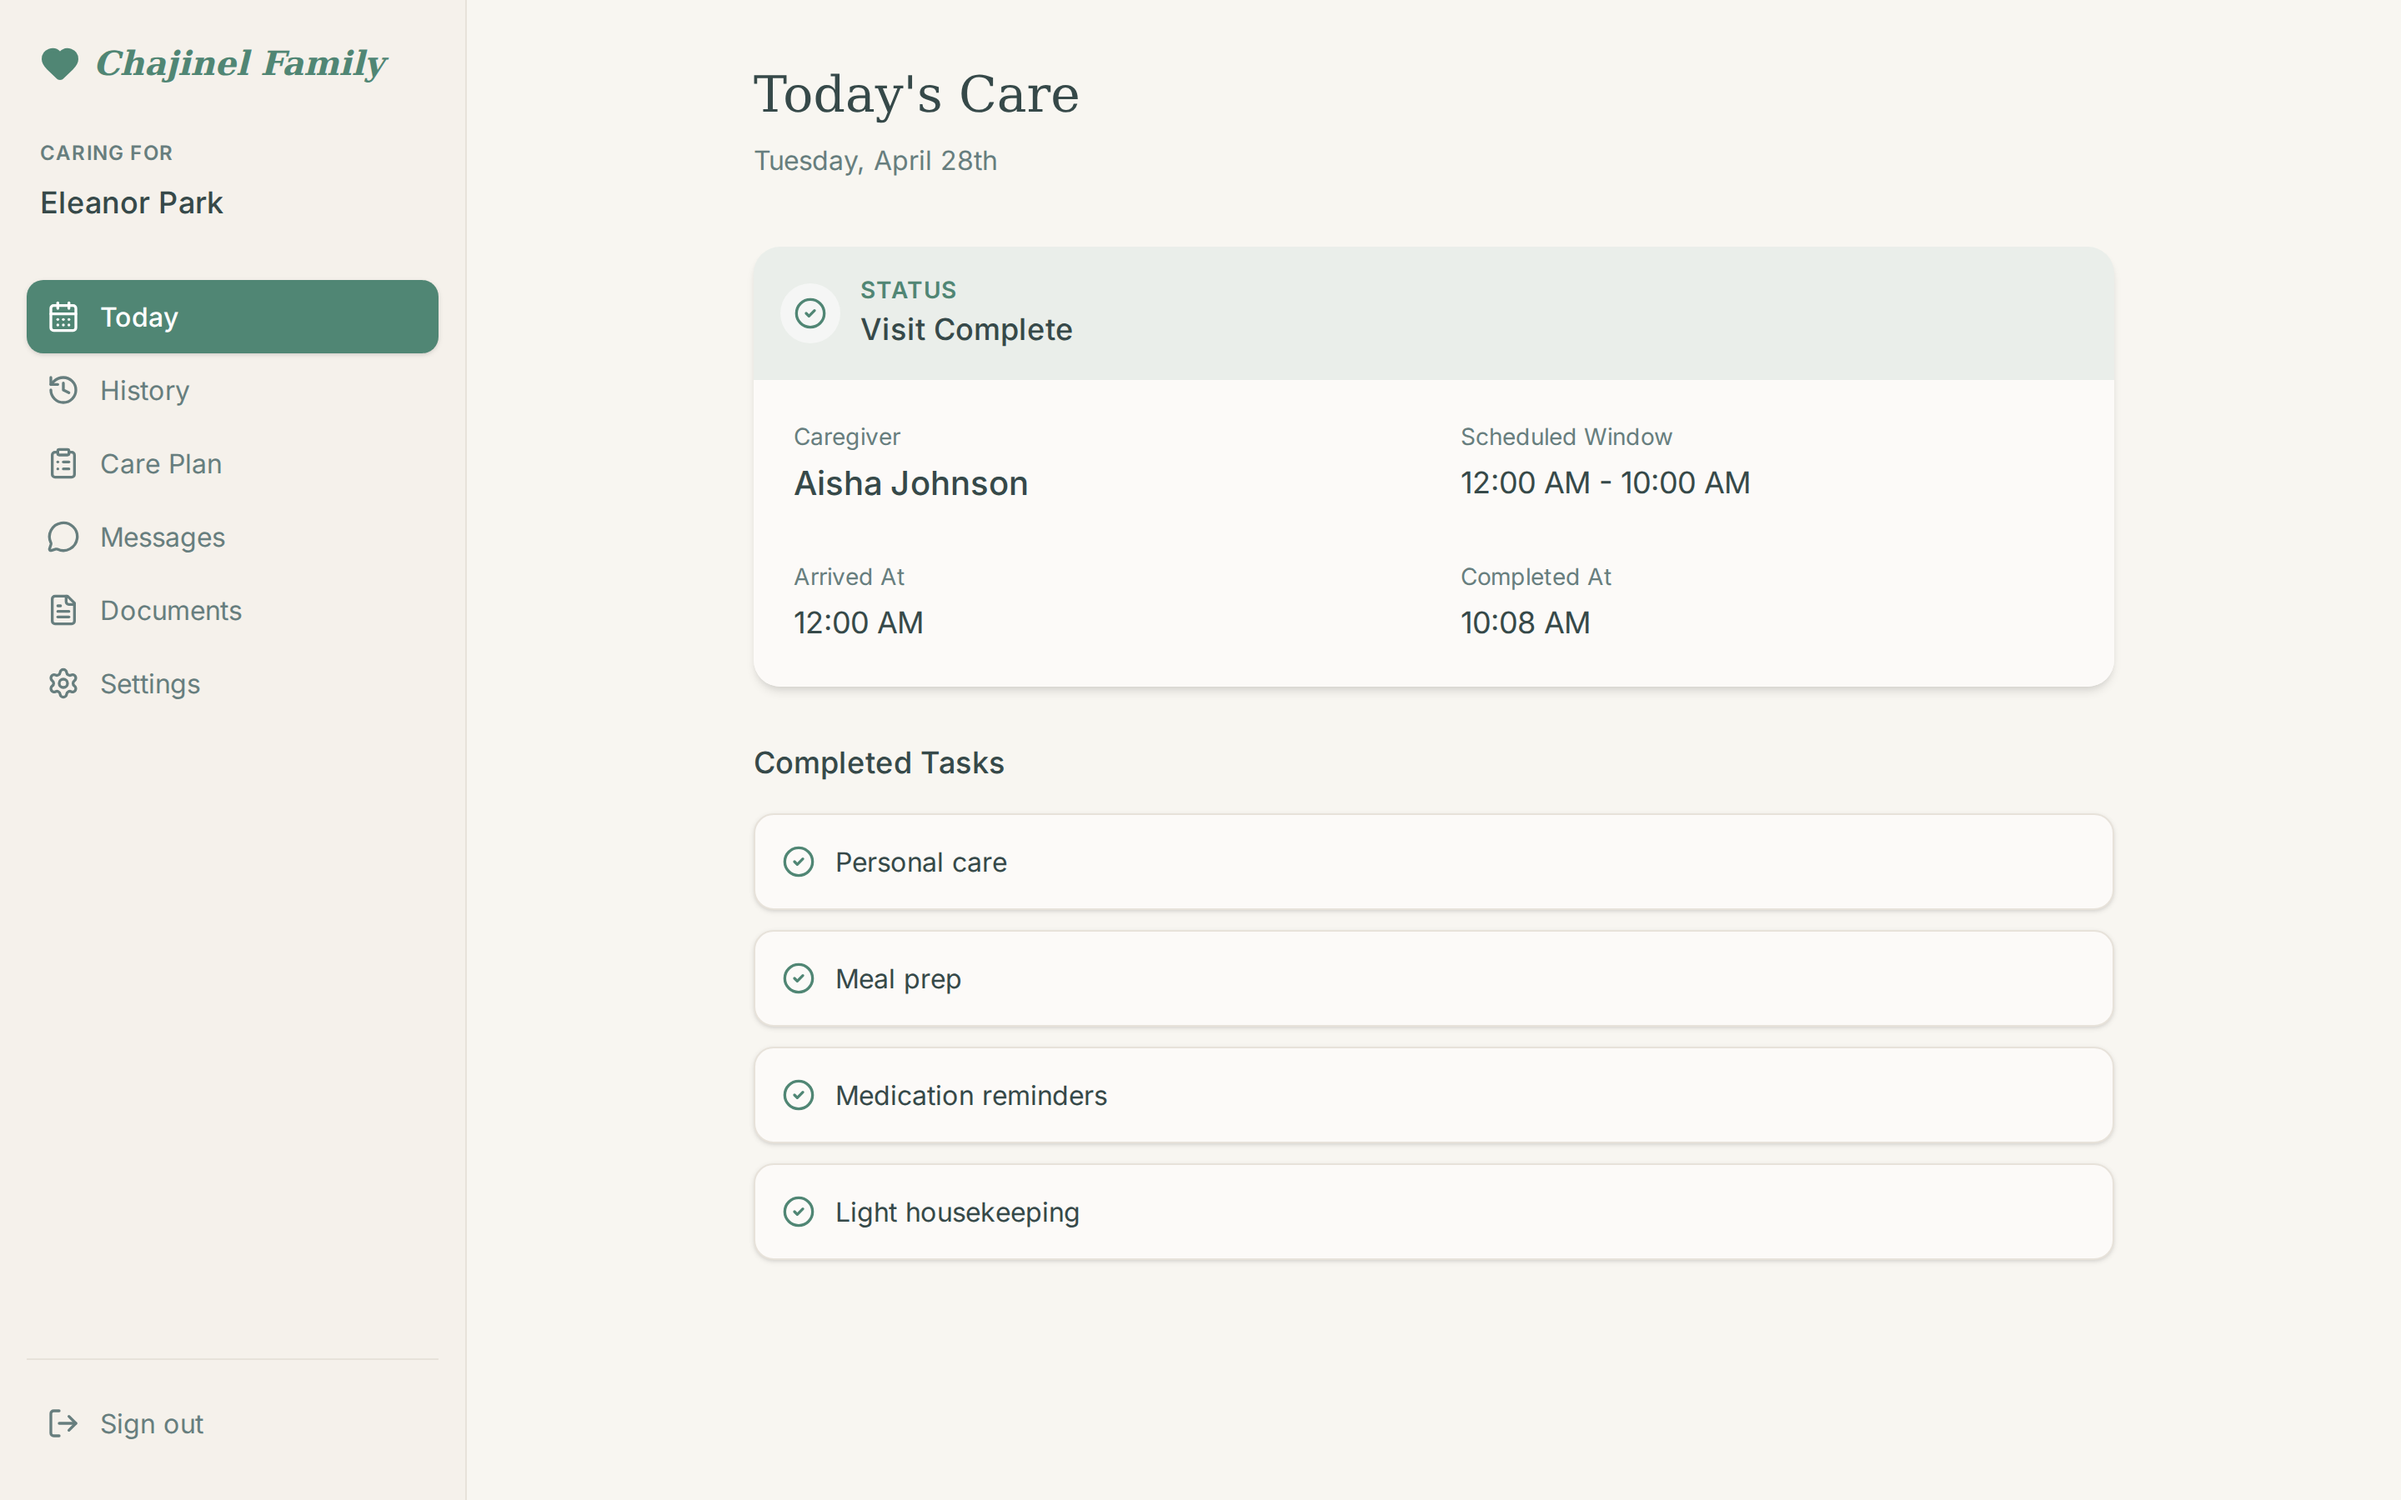
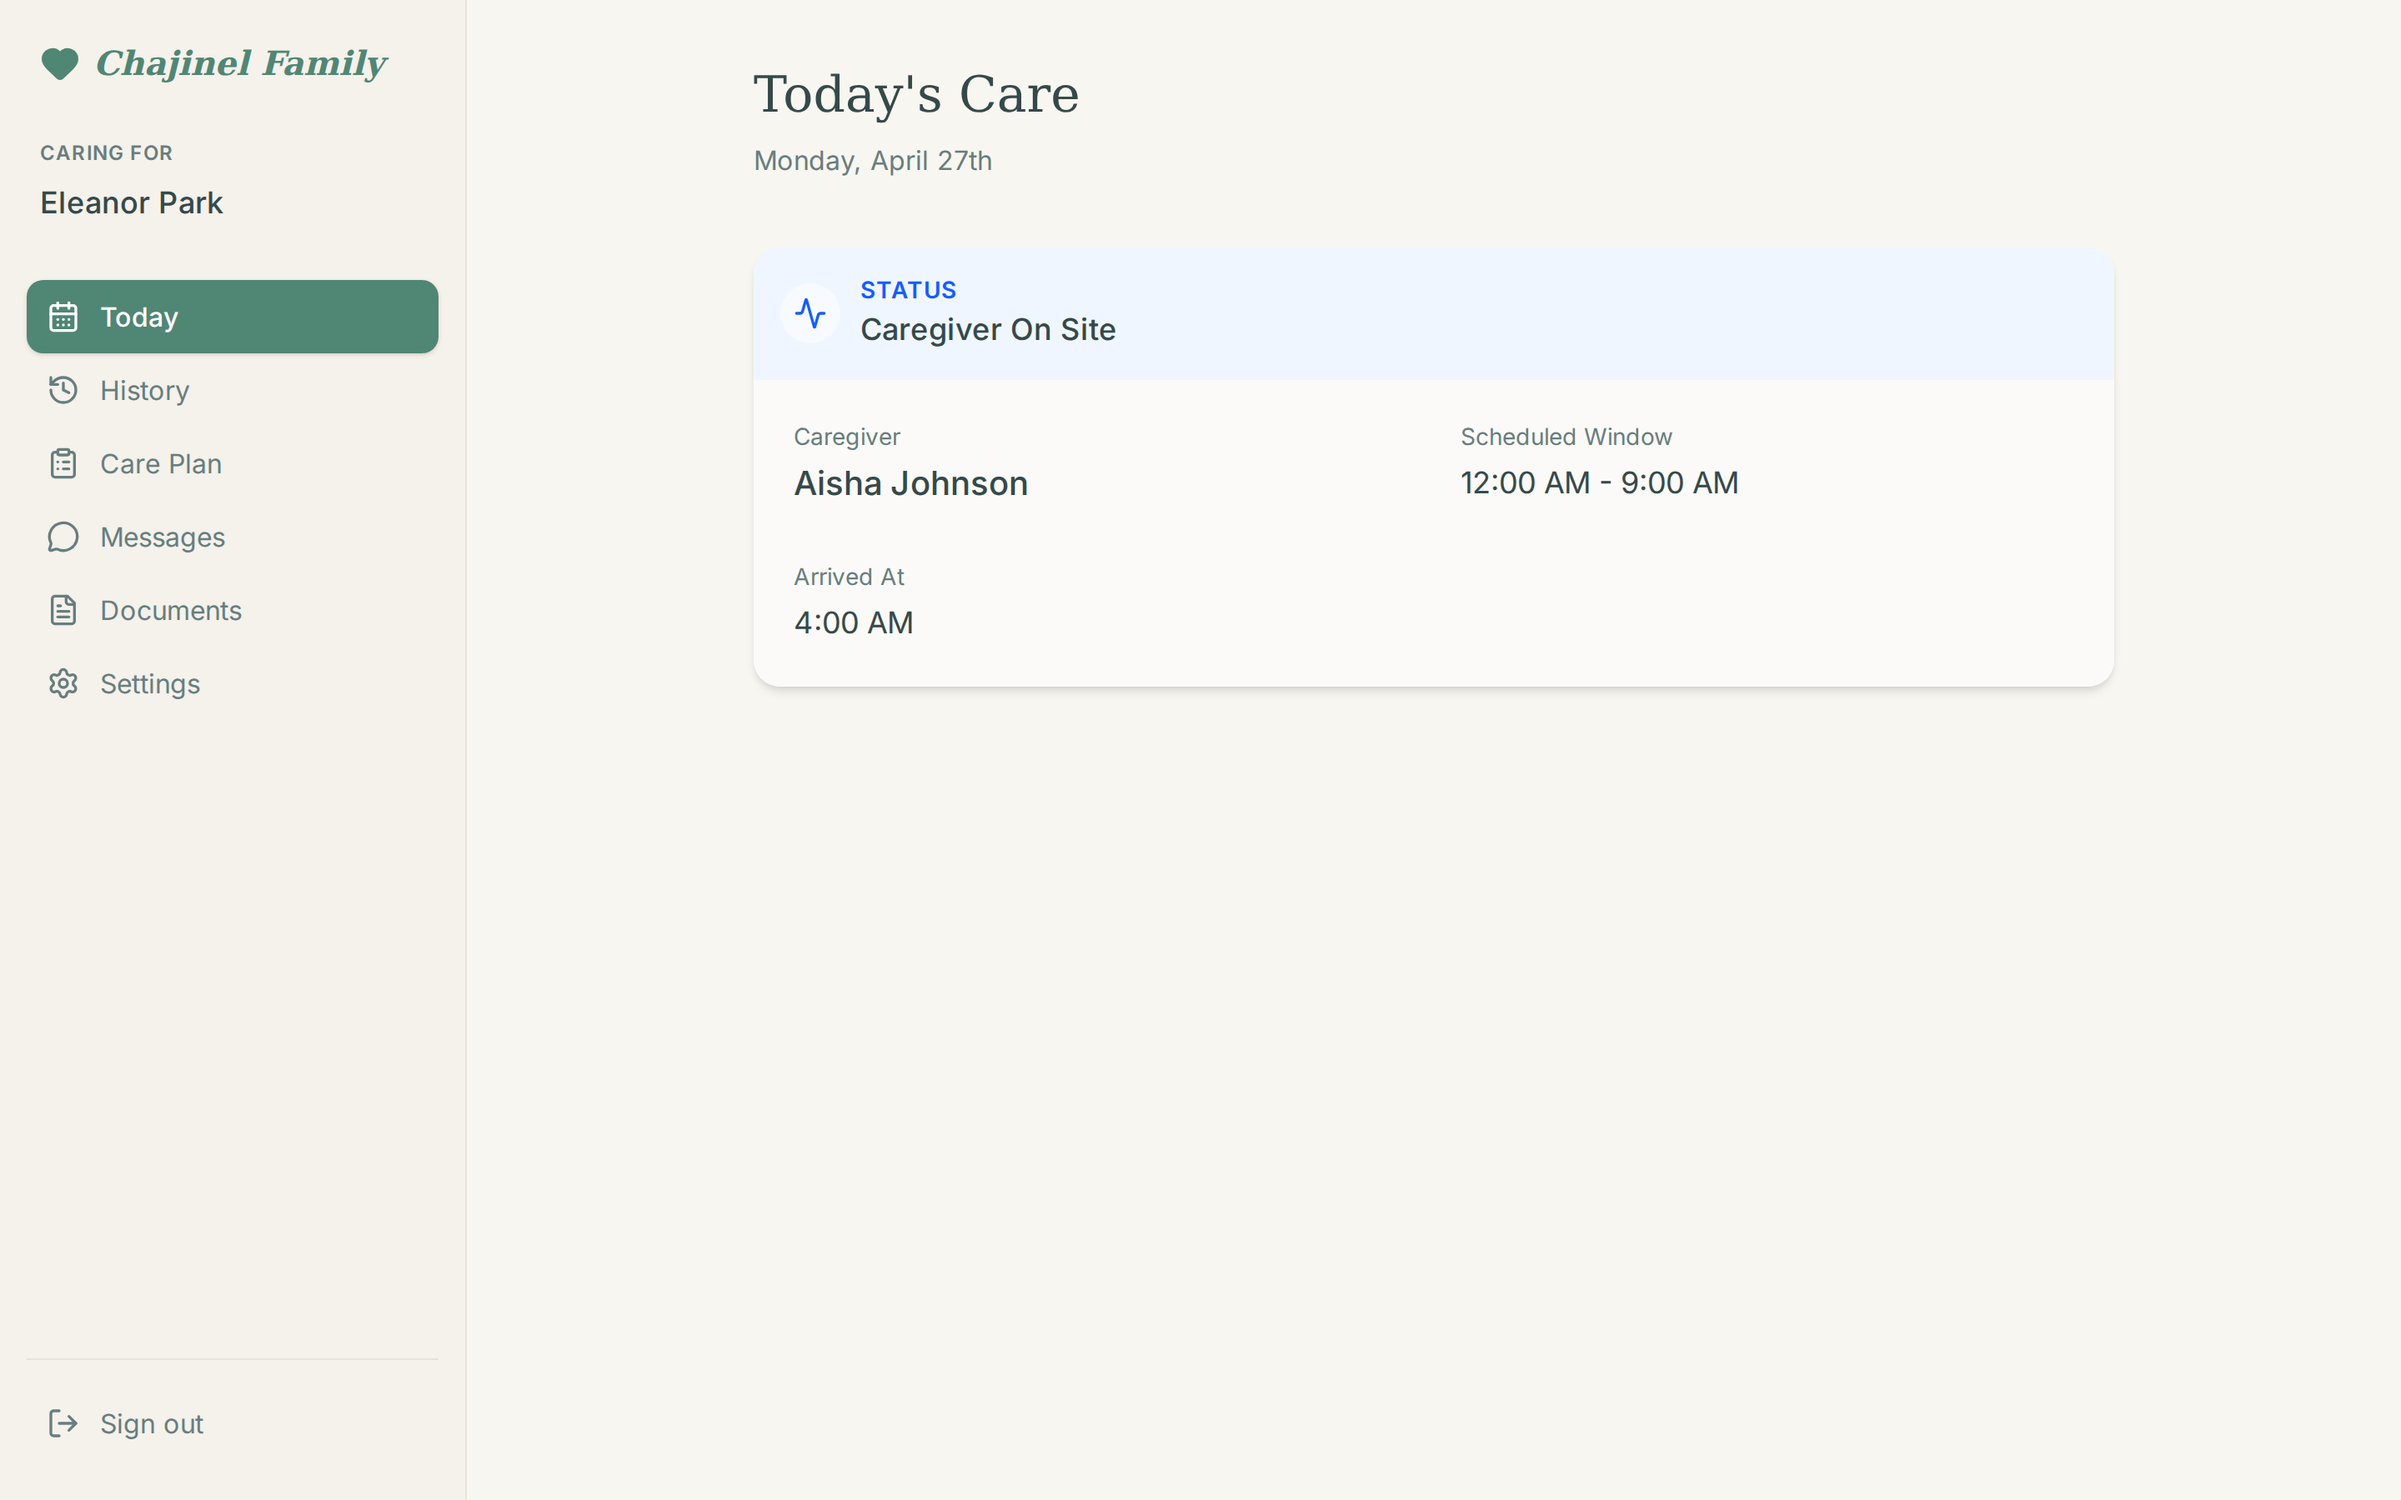
Task #35: Capture 7 demo "magic moment" PNGs via Playwright harness
Built `scripts/src/demo-screenshots.ts` Playwright harness, `pnpm
demo:screenshots` root alias, and `demo-assets/README.md`. Installed
playwright + chromium + nix system libs.

Canonical PNGs are committed under `demo-assets/` as the baseline
fallback set; only `*.tmp` is gitignored now.

Harness drives each magic-moment state deterministically and hard-asserts
the required content before capture (fails fast on regression):

1. Dashboard — waits for "Active Clients/Caregivers/Projected OT" KPIs.
2. Schedule grid — Apr 27–May 3 grid; hovers the first shift card to
   show the OT-impact affordance before capturing.
3. Intake review — confidence percents (97/91/86/72/95) all rendered.
4. Caregiver active visit — Eleanor Park ON SITE with 4 care-plan tasks
   (Bathing/Medication/Korean cooking/Companionship) + "Clock out & sign"
   CTA visible (mid-checklist).
5. Family portal Today — asserts "Caregiver On Site" status + "Arrived
   At" timestamp (live state, not Scheduled/Complete).
6. Payroll period detail — closes pp_prev (Apr 13–26) so it has
   computed entries with OT breakdown; capture asserts Total/Regular/
   Premium hours and per-caregiver OT row are populated. 14 caregivers,
   $13,837 gross pay, Sofia/Aisha 2.00 OT hrs each.
7. Compliance — at least 2 OPEN alerts visible (8 OPEN alerts of 5
   types in the canonical capture).

Time/visit alignment fix: FROZEN time is now Monday 11:00 UTC (computed
[…]

diff --git a/scripts/src/demo-screenshots.ts b/scripts/src/demo-screenshots.ts
@@ -179,7 +179,7 @@ async function shotIntake(ctx: BrowserContext) {
 // ---------------------------------------------------------------------------
 // 4) Caregiver PWA active visit (clock in cg_001 → sch_001)
 // ---------------------------------------------------------------------------
-async function clockInCg001(): Promise<{ visitId: string; sessionToken: string; expiresAt: string }> {
+async function clockInCg001(occurredAtIso: string): Promise<{ visitId: string; sessionToken: string; expiresAt: string }> {
   const phone = "(415) 555-1101";
   const otp = await api<{ devCode?: string }>("/api/m/auth/request-otp", {
     method: "POST",
@@ -190,13 +190,27 @@ async function clockInCg001(): Promise<{ visitId: string; sessionToken: string; 
     "/api/m/auth/verify-otp",
     { method: "POST", json: { phone, code: otp.devCode } },
   );
-  // Clock in to sch_001 if not already on a visit
+  // Pass occurredAt aligned to FROZEN so the clocked-in visit row falls
+  // inside the family-portal Today window (queried under FROZEN's date).
   const clock = await api<{ id: string }>("/api/m/visits/clock-in", {
     method: "POST",
     headers: { authorization: `Bearer ${verify.sessionToken}` },
-    json: { scheduleId: "sch_001" },
+    json: { scheduleId: "sch_001", occurredAt: occurredAtIso },
   });
   return { visitId: clock.id, sessionToken: verify.sessionToken, expiresAt: verify.expiresAt };
+}
+
+function computeFrozenMs(): number {
+  // Mid-shift inside sch_001 (Mon 07:00–16:00 UTC) so visit is in-progress.
+  // Using UTC explicitly (seed's dateAt also uses UTC) avoids host-TZ drift.
+  const now = new Date();
+  const dow = now.getUTCDay();
+  const daysFromMonday = (dow + 6) % 7;
+  const monday = new Date(Date.UTC(
+    now.getUTCFullYear(), now.getUTCMonth(), now.getUTCDate() - daysFromMonday,
+    11, 0, 0, 0, // 11:00 UTC = squarely inside 07:00–16:00 UTC sch_001 window
+  ));
+  return monday.getTime();
 }
 
 async function shotCaregiverVisit(
@@ -250,18 +264,23 @@ async function shotFamilyToday(ctx: BrowserContext) {
   // Hard-assert: heading rendered AND a real status card is visible (not the
   // loading skeleton or empty-state placeholder). Fail the run if neither
   // populated state appears.
+  // Hard-assert ON_SITE state with caregiver and arrival time visible.
+  // We pre-clocked-in cg_001 against sch_001 and FROZEN is mid-shift, so
+  // family-portal Today must resolve to "Caregiver On Site". Fail fast if
+  // it lands on Scheduled/Complete/empty — the previous shot was wrong.
   await page.waitForFunction(
     `(() => {
       const t = document.body.innerText || "";
-      const hasHeader = /Today's Care/i.test(t);
-      const hasStatusCard = /Visit Complete|Caregiver On Site|Caregiver En Route|Scheduled/i.test(t);
-      return hasHeader && hasStatusCard;
+      if (!/Today's Care/i.test(t)) return false;
+      if (!/Caregiver On Site/i.test(t)) return false;
+      if (!/Arrived At/i.test(t)) return false;
+      return true;
     })()`,
     null,
-    { timeout: 15_000 },
+    { timeout: 20_000 },
   );
   await settle(page);
-  await snap(page, "05-family-today");
+  await snap(page, "05-family-today", "ON SITE");
   await page.close();
 }
 
@@ -269,17 +288,39 @@ async function shotFamilyToday(ctx: BrowserContext) {
 // 6) Careos payroll period detail
 // ---------------------------------------------------------------------------
 async function shotPayroll(ctx: BrowserContext) {
+  // Close pp_prev (Apr 13-26) so it has computed entries with regular/OT
+  // hour breakdowns. The harness is idempotent — if it's already closed
+  // the API returns 400 and we proceed to capture.
+  let target = "pp_prev";
+  try {
+    await api(`/api/pay-periods/${target}/close`, { method: "POST", json: {} });
+  } catch (e) {
+    const msg = (e as Error).message;
+    if (!/already CLOSED|already FINALIZED/i.test(msg)) {
+      console.warn(`  (close ${target} failed: ${msg.slice(0, 200)}; falling back to pp_open)`);
+      target = "pp_open";
+    }
+  }
   const page = await ctx.newPage();
   await page.setViewportSize(DESKTOP);
-  await page.goto(`${BASE}/payroll/pp_open`, { waitUntil: "domcontentloaded" });
+  await page.goto(`${BASE}/payroll/${target}`, { waitUntil: "domcontentloaded" });
   await page.waitForSelector("main", { timeout: 15_000 });
+  // Hard-assert the OT calculation breakdown is rendered: Caregiver Summary
+  // table populated and at least one non-zero overtime hour value present.
   await page.waitForFunction(
-    `/Pay Period Details/i.test(document.body.innerText || "") && /Caregiver Summary/i.test(document.body.innerText || "")`,
+    `(() => {
+      const t = document.body.innerText || "";
+      if (!/Pay Period Details/i.test(t)) return false;
+      if (!/Caregiver Summary/i.test(t)) return false;
+      // Either an OT hours value > 0 anywhere, or "Overtime" label paired
+      // with a non-zero numeric in the totals row.
+      return /\\bOT\\b|Overtime/i.test(t) && /[1-9][0-9]*\\.[0-9]+\\s*h|[1-9][0-9]*\\s*h/.test(t);
+    })()`,
     null,
-    { timeout: 15_000 },
+    { timeout: 20_000 },
   );
   await settle(page);
-  await snap(page, "06-careos-payroll");
+  await snap(page, "06-careos-payroll", `period ${target}`);
   await page.close();
 }
 
@@ -315,10 +356,16 @@ async function main() {
     throw new Error(`API not reachable at ${BASE}/api/healthz — start workflows first.`);
   }
 
+  // FROZEN_MS computed in UTC so the clocked-in visit row's clockInTime
+  // falls inside the family-portal Today window (which is also queried under
+  // FROZEN). See computeFrozenMs() for the rationale.
+  const FROZEN_MS = computeFrozenMs();
+  console.log(`  ↳ frozen "now" = ${new Date(FROZEN_MS).toISOString()}`);
+
   // Pre-arrange the caregiver-active-visit (this also enables family-portal ON_SITE state).
   let caregiverSession: { visitId: string; sessionToken: string; expiresAt: string } | null = null;
   try {
-    caregiverSession = await clockInCg001();
+    caregiverSession = await clockInCg001(new Date(FROZEN_MS).toISOString());
     console.log(`  ↳ caregiver clocked in: visit ${caregiverSession.visitId}`);
   } catch (e) {
     console.warn(`  (caregiver clock-in failed: ${(e as Error).message})`);
@@ -330,41 +377,15 @@ async function main() {
     const ctx = await browser.newContext({
       viewport: DESKTOP,
       deviceScaleFactor: 2,
-      // Pin the in-browser timezone so date-fns / Intl formatters render the
-      // same labels (e.g. "Tuesday, April 28th") regardless of host TZ. The
-      // seed and FROZEN clock are computed in PT.
       timezoneId: "America/Los_Angeles",
       locale: "en-US",
     });
-    // Pin "now" to Tuesday 14:30 PT of the *current* week so views keyed off
-    // Date.now() (family-portal Today, careos Schedule "this week") resolve to
-    // populated data rather than empty weekend/out-of-range dates.
-    //
-    // The seed (`seed.ts` / `seed-chajinel.ts`) generates schedules and visits
-    // via `dateAt(daysFromMonday, ...)` relative to `new Date()` at seed time,
-    // so it always covers the current ISO week. Hard-coding a fixed calendar
-    // date would drift after a future `demo:reset`. Computing Tuesday of the
-    // real "today" keeps the harness aligned with the seed window.
-    //
     // We deliberately override only Date (not performance.now) so framer-motion
     // and other RAF-driven animations still progress past their initial state.
     // Using ctx.clock.install would freeze performance.now and stall those
     // animations, leaving motion.div elements at opacity: 0.
-    const FROZEN = (() => {
-      const now = new Date();
-      const dow = now.getDay(); // 0=Sun..6=Sat
-      const daysFromMonday = (dow + 6) % 7; // Mon=0
-      const monday = new Date(now);
-      monday.setDate(now.getDate() - daysFromMonday);
-      // Tuesday 14:30 in local TZ.
-      const tue = new Date(monday);
-      tue.setDate(monday.getDate() + 1);
-      tue.setHours(14, 30, 0, 0);
-      return tue.valueOf();
-    })();
-    console.log(`  ↳ frozen "now" = ${new Date(FROZEN).toISOString()}`);
     await ctx.addInitScript(`(() => {
-      const FROZEN = ${FROZEN};
+      const FROZEN = ${FROZEN_MS};
       const _Date = Date;
       function PatchedDate(...args) {
         if (!(this instanceof PatchedDate)) {

diff --git a/artifacts/family-portal/src/pages/today.tsx b/artifacts/family-portal/src/pages/today.tsx
@@ -25,9 +25,23 @@ export default function Today() {
 
   const isLoading = loadingSchedules || loadingVisits;
 
-  // Status derivation
-  const schedule = schedules?.[0];
-  const visit = visits?.find(v => v.clientId === clientId);
+  // Status derivation: prefer the schedule whose visit is currently
+  // in-progress (clocked in, not yet out), then the next upcoming schedule
+  // by start time. Falls back to the first returned schedule.
+  const clientVisits = visits?.filter(v => v.clientId === clientId) ?? [];
+  const activeVisit = clientVisits.find(v => v.clockInTime && !v.clockOutTime);
+  const sortedSchedules = (schedules ?? [])
+    .slice()
+    .sort((a, b) => parseISO(a.startTime).getTime() - parseISO(b.startTime).getTime());
+  const activeSchedule = activeVisit
+    ? sortedSchedules.find(s => s.id === activeVisit.scheduleId)
+    : undefined;
+  const nowMs = Date.now();
+  const upcomingSchedule = sortedSchedules.find(s => parseISO(s.endTime).getTime() >= nowMs);
+  const schedule = activeSchedule ?? upcomingSchedule ?? sortedSchedules[0];
+  const visit = activeVisit
+    ?? (schedule ? clientVisits.find(v => v.scheduleId === schedule.id) : undefined)
+    ?? clientVisits[0];
   
   let status = "NO_VISIT_SCHEDULED";
   let statusLabel = "No visit scheduled";

diff --git a/artifacts/api-server/src/routes/m/visits.ts b/artifacts/api-server/src/routes/m/visits.ts
@@ -54,7 +54,7 @@ async function loadVisitDetail(visitId: string) {
         and(
           eq(carePlansTable.agencyId, AGENCY_ID),
           eq(carePlansTable.clientId, v.clientId),
-          eq(carePlansTable.status, "ACTIVE"),
+          eq(carePlansTable.status, "APPROVED"),
         ),
       )
       .orderBy(desc(carePlansTable.version))
@@ -229,7 +229,7 @@ router.post(
         and(
           eq(carePlansTable.agencyId, AGENCY_ID),
           eq(carePlansTable.clientId, sch.clientId),
-          eq(carePlansTable.status, "ACTIVE"),
+          eq(carePlansTable.status, "APPROVED"),
         ),
       )
       .orderBy(desc(carePlansTable.version))

diff --git a/artifacts/api-server/src/routes/m/schedule.ts b/artifacts/api-server/src/routes/m/schedule.ts
@@ -62,7 +62,7 @@ router.get(
           .where(
             and(
               eq(carePlansTable.agencyId, AGENCY_ID),
-              eq(carePlansTable.status, "ACTIVE"),
+              eq(carePlansTable.status, "APPROVED"),
             ),
           )
       : [];
